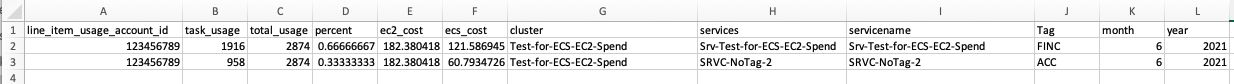
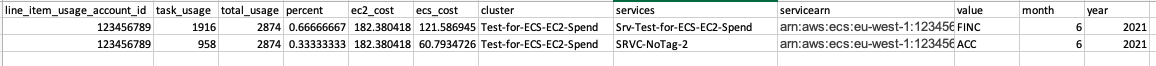
swaped two names for an arn, updated rm breakdown and picture

diff --git a/source/ecs.py b/source/ecs.py
@@ -51,8 +51,8 @@ def lambda_handler(event, context):
                                     for service in services["services"]:
                                         data = {
                                             "cluster": cluster.split("/")[1],
-                                            "services": i.split("/")[2],
-                                            "serviceName": service.get("serviceName"),
+                                            "service": service.get("serviceName"),
+                                            "servicesARN": i, #.split("/")[2]
                                             "tags": service.get("tags"),
                                             "account_id":account_id
 

diff --git a/README.md b/README.md
@@ -148,6 +148,15 @@ After completing the deployment of the solution using either option above, you c
 
 ![Picture](Example_output.png)
 
+Breakdown: 
+* total_usage: total memory resources reserved (in GBs) by all tasks over the billing period (i.e. – monthly)
+* percent: task_usage / total_usage
+* ec2_cost: monthly cost for EC2 instance in $
+* Services: Name of service 
+* servicearn: Arn of service
+* Value: Value of specified tag for the ECS service (could be App, TeamID, etc?)
+
+**Made by OPTICS**
 ---
 **NOTE**
 
